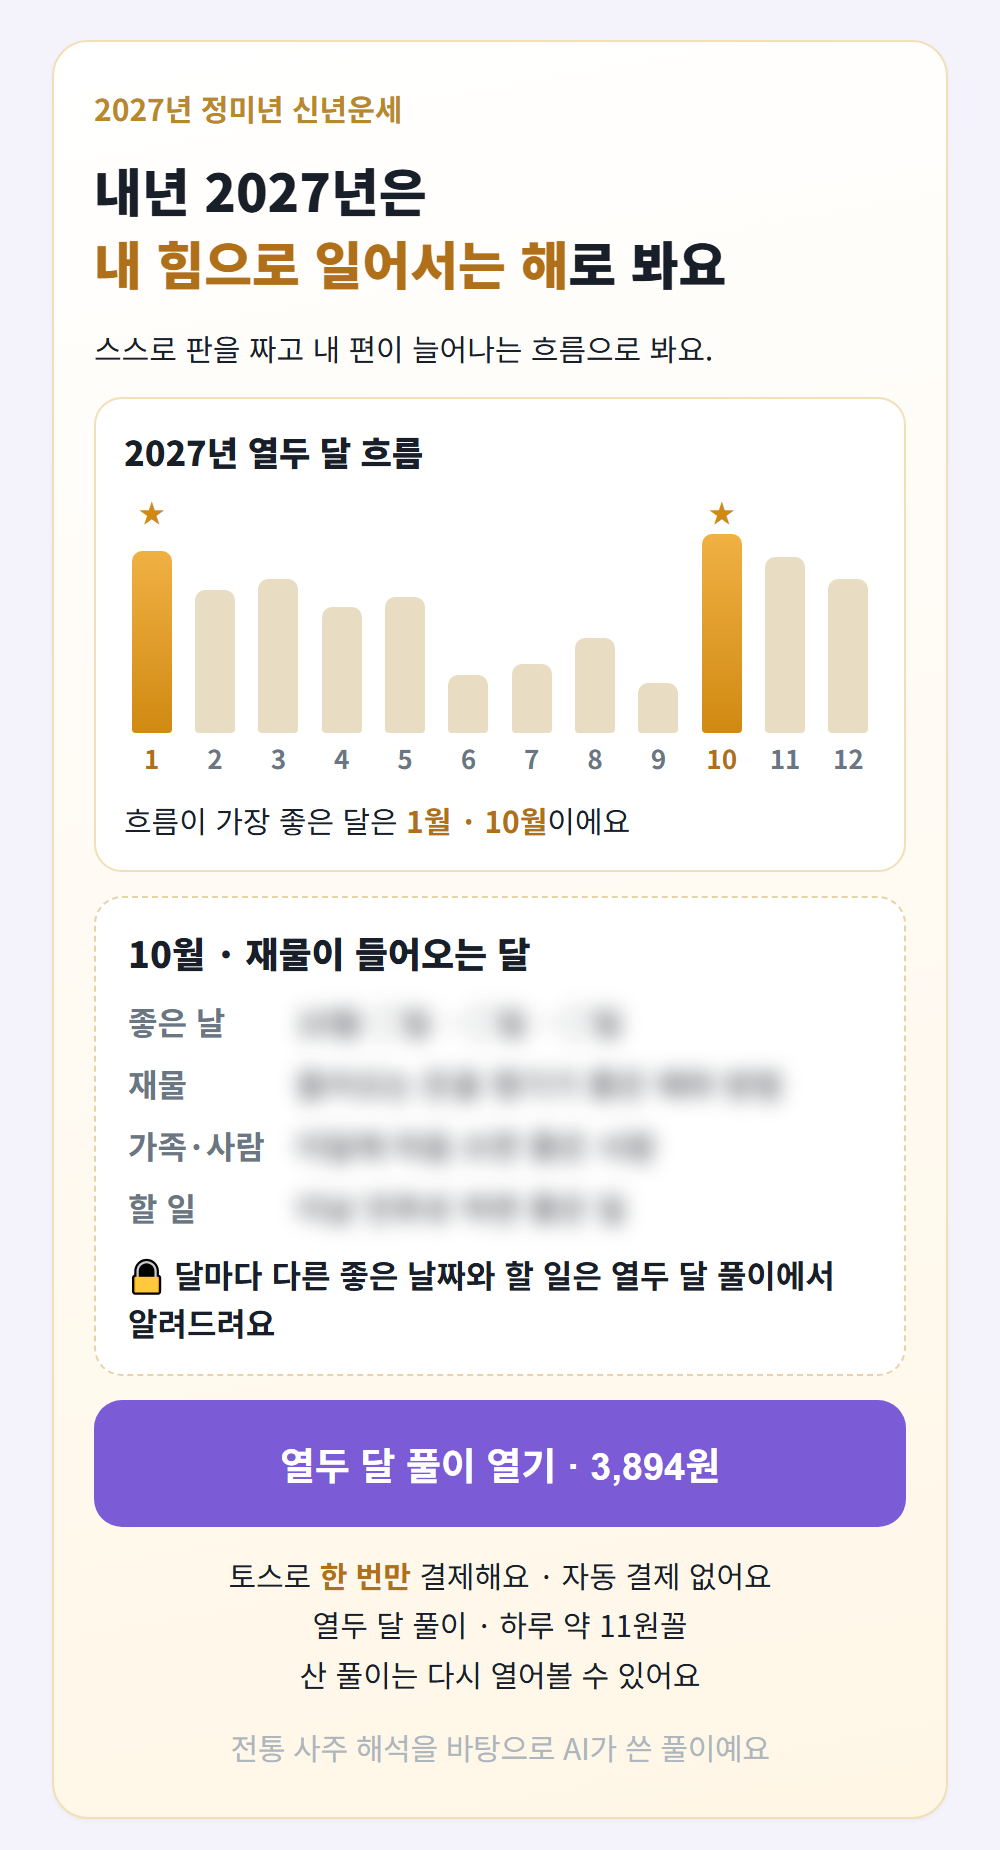
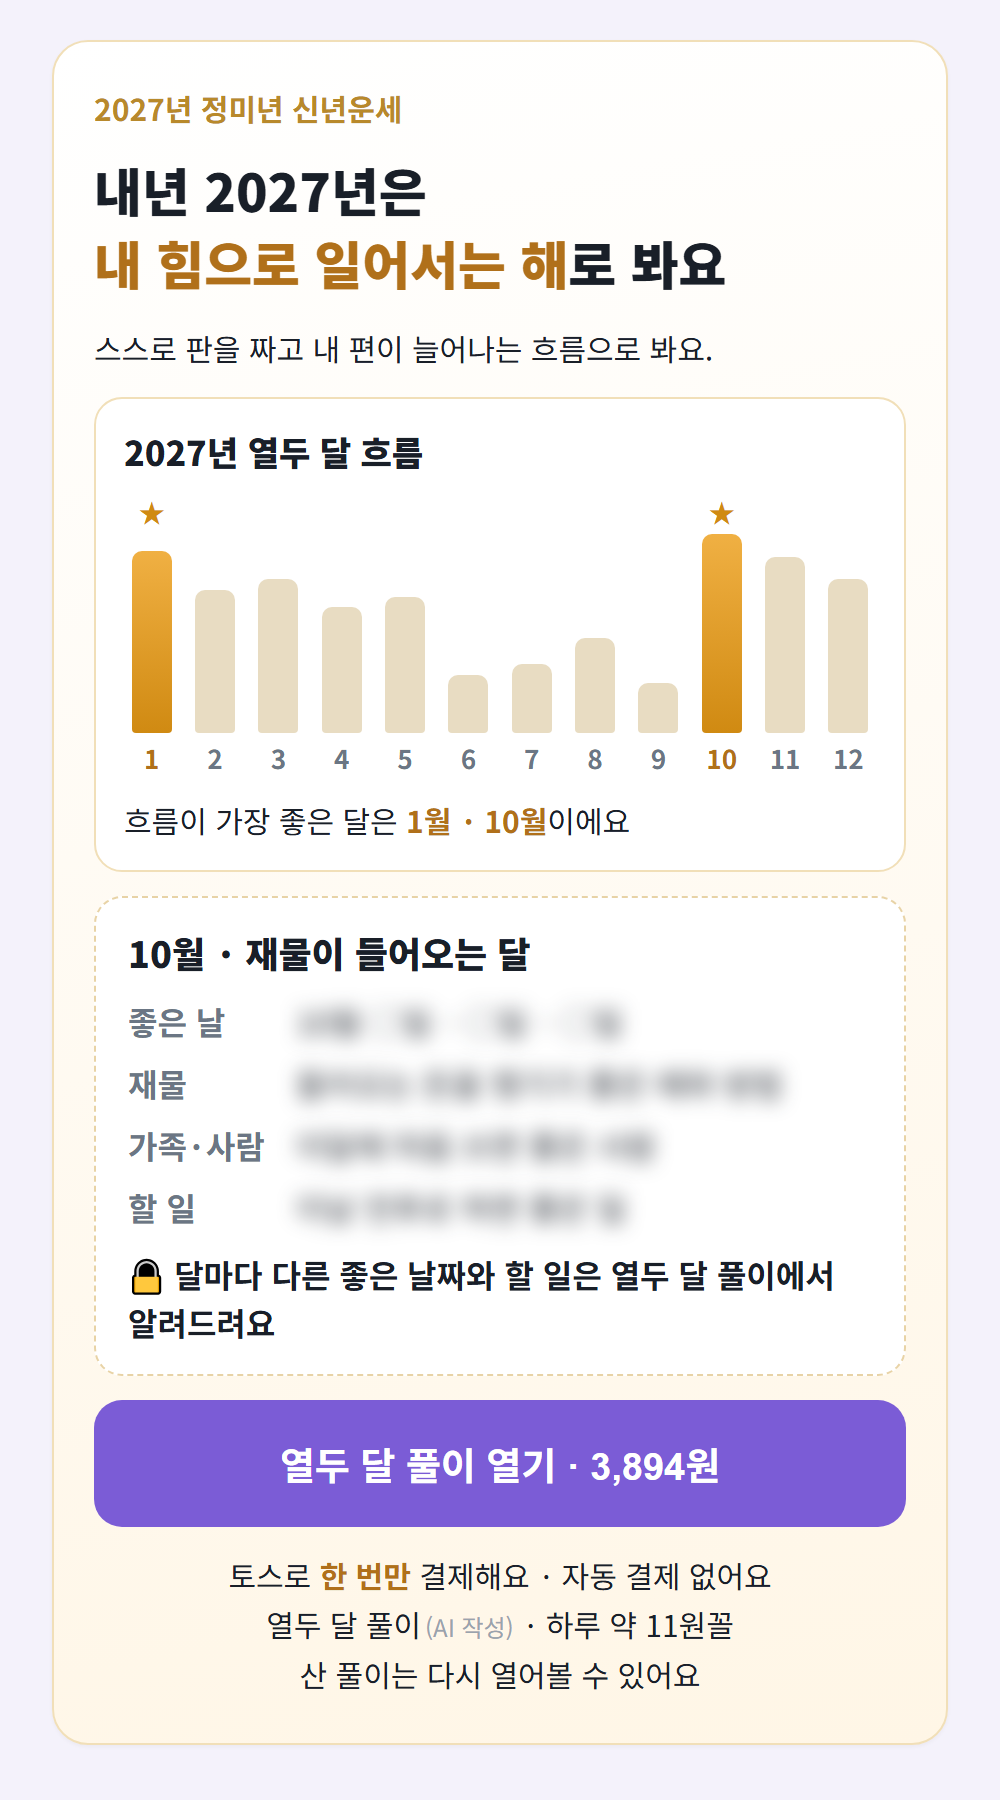
토스 v11 카드: AI 고지를 상품명 옆 '(AI 작성)' 작은 표시로

diff --git a/toss-mini/src/v11/v11.css b/toss-mini/src/v11/v11.css
@@ -7,7 +7,6 @@
 .ny-cta { font-size: 19px; padding: 18px; }
 .ny-trust { margin: -2px 0 0; text-align: center; font-size: 15px; line-height: 1.6; color: var(--text); }
 .ny-trust b { color: #b0701a; }
-.ny-note { margin: 0; text-align: center; font-size: 11px; color: #adb5bd; line-height: 1.3; letter-spacing: -0.01em; }
 .ny-flow { background: #fff; border: 1px solid #f1dfb8; border-radius: 14px; padding: 14px 14px 12px; display: flex; flex-direction: column; gap: 10px; }
 .ny-flow-title { font-size: 17px; font-weight: 800; }
 .ny-bars { display: grid; grid-template-columns: repeat(12, 1fr); gap: 4px; height: 140px; align-items: end; }
@@ -28,3 +27,4 @@
 .ny-locked-rows .blur { filter: blur(5px); user-select: none; color: var(--text); }
 .ny-lock-note { font-size: 16px; font-weight: 700; line-height: 1.5; color: var(--text); }
 .ny-track { flex: 1; width: 100%; display: flex; align-items: flex-end; justify-content: center; }
+.ny-ai { font-size: 12px; color: #9aa3ad; margin-left: 2px; }

diff --git a/toss-mini/src/v11/NewYearTeaser.tsx b/toss-mini/src/v11/NewYearTeaser.tsx
@@ -109,13 +109,12 @@ export function NewYearTeaser({ result, priceLabel, pricePerDay, variant = "A", 
         <p className="ny-trust">
           토스로 <b>한 번만</b> 결제해요 · 자동 결제 없어요
           <br />
-          {pricePerDay ? `열두 달 풀이 · ${pricePerDay}` : "열두 달 풀이"}
+          {/* AI 작성 고지(인공지능기본법·소비자 고지): 사는 물건 이름 바로 옆에 짧게 — "(AI)"만 쓰면 뜻이 모호해 "(AI 작성)"으로 */}
+          열두 달 풀이<span className="ny-ai">(AI 작성)</span>{pricePerDay ? ` · ${pricePerDay}` : ""}
           <br />
           산 풀이는 다시 열어볼 수 있어요
         </p>
       )}
-      {/* AI 작성 고지: 결제 전 알림(인공지능기본법·소비자 고지) — 작게 줄이되 숨기지 않는다 */}
-      <p className="ny-note">전통 사주 해석을 바탕으로 AI가 쓴 풀이예요</p>
-    </section>
+          </section>
   );
 }
